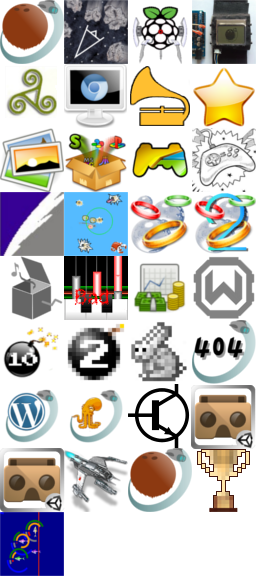
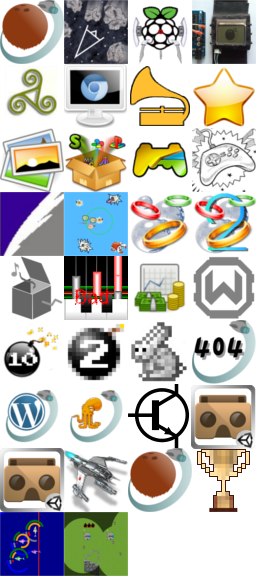
New pages and rps post

Changed region(s): [[0.25, 0.875, 0.5, 1.0]]

diff --git a/source/stylesheets/projects.css b/source/stylesheets/projects.css
@@ -47,6 +47,7 @@ table {  width:100%}
  * 64,128,192,256,320,384,448,512 */
 
 .project-coconauts{ background-position:0px 0px;}
+.project-podcast{ background-position:0px 0px;}
 .project-astroship{ background-position:-64px 0px;}
 .project-turret-pi{ background-position:-128px 0px;}
 .project-watchduino{ background-position:-192px 0px;}
@@ -87,6 +88,7 @@ table {  width:100%}
 .project-retrophies{ background-position:-192px -448px;}
 
 .project-sea-life{ background-position:0px -512px;}
+.project-rps{ background-position:-64px -512px;}
 
 .title{font-weight:bold;}
 .gray{color:gray;}
